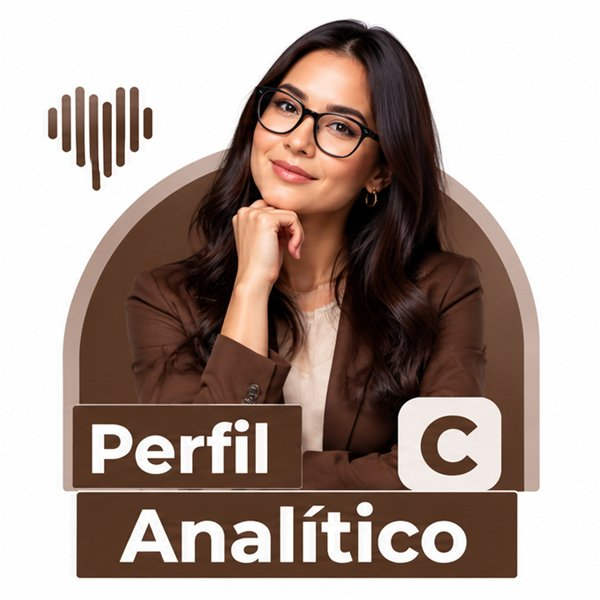
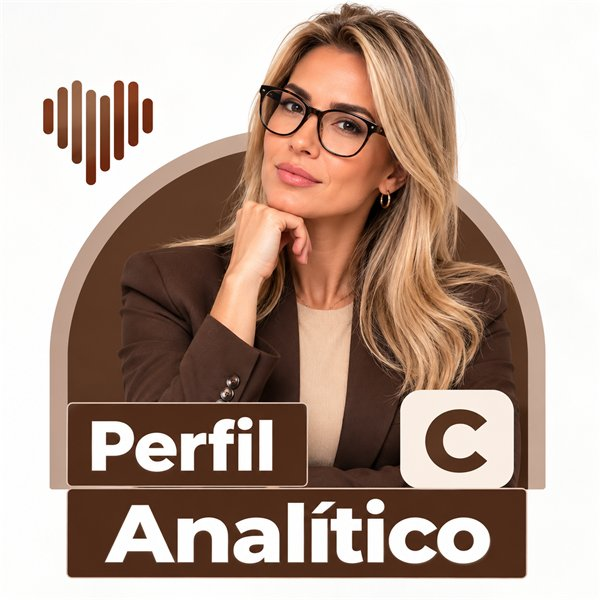
DISC: nova arte do Perfil Analítico

diff --git a/lp-disc.html b/lp-disc.html
@@ -165,7 +165,7 @@ details p{padding:0 0 16px;color:var(--cinza);font-size:15px}
   function perfis(txt) {
     return '<div class="perfis">' + ['D','I','S','C'].map(function (k) {
       return '<div class="pcard">' +
-        '<div class="pfoto"><img src="/img/disc/perfil-' + k + '.jpg?v=2" alt="Perfil ' + txt[k][0] + '" loading="lazy"></div>' +
+        '<div class="pfoto"><img src="/img/disc/perfil-' + k + '.jpg?v=3" alt="Perfil ' + txt[k][0] + '" loading="lazy"></div>' +
         '<div class="txt"><h3>' + txt[k][0] + '</h3><p>' + txt[k][1] + '</p></div>' +
       '</div>';
     }).join('') + '</div>';
